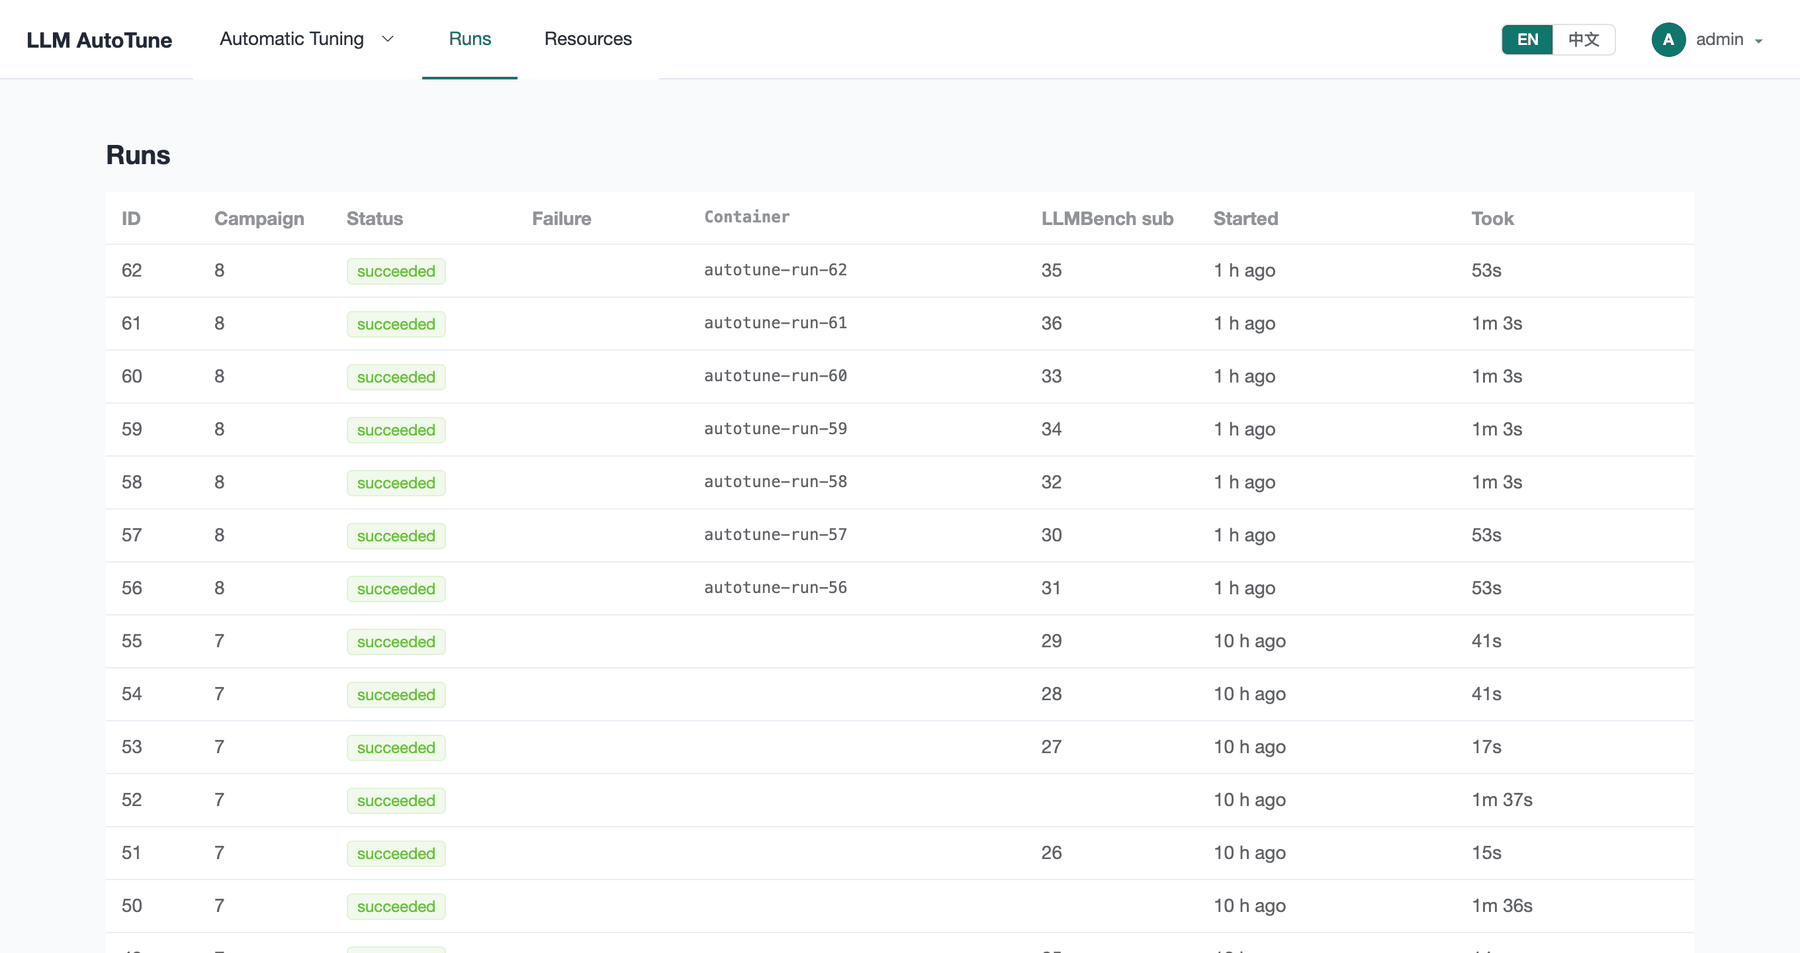
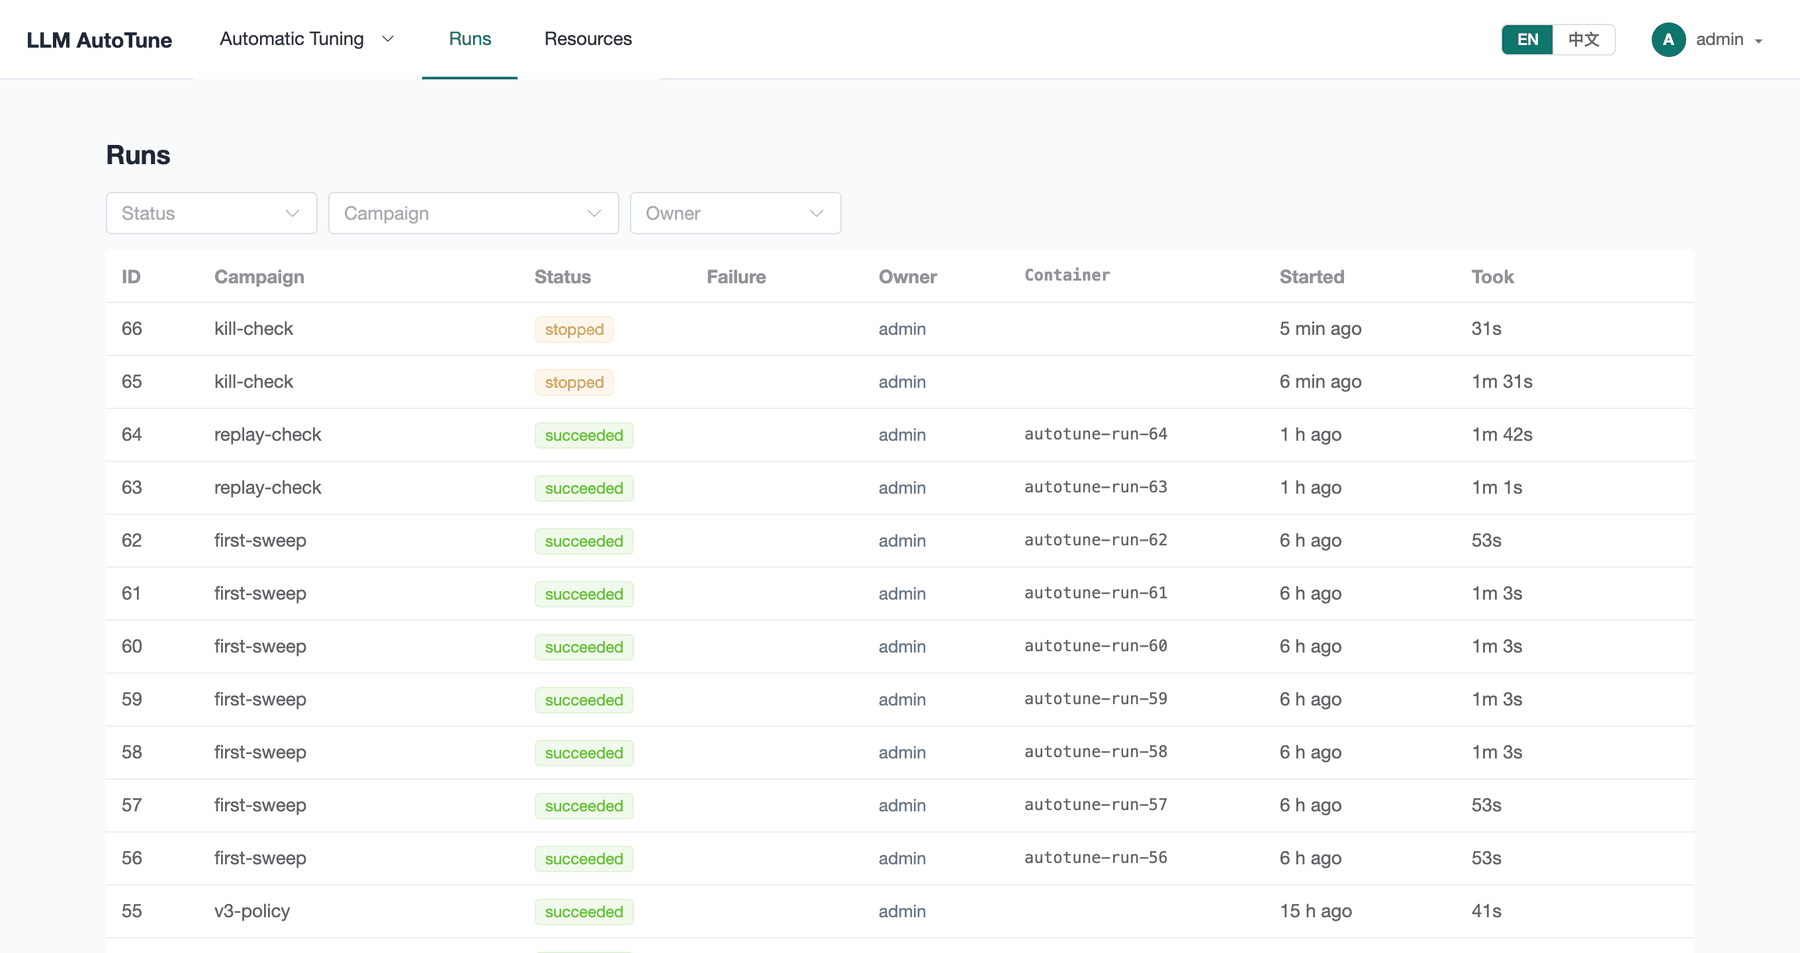
Docs: the compact campaign page, Start from, filters and the Activity log

diff --git a/docs/guide/running-campaigns.md b/docs/guide/running-campaigns.md
@@ -7,18 +7,25 @@ page covers starting, pausing and stopping a campaign, its schedule, and what
 the page shows while it runs. Results are covered in
 [Reading results](results.md).
 
+The **Campaigns** list filters by status, owner, model and engine, and
+searches names, models and images. The filters are kept in the page's
+address, so a filtered list can be shared as a link.
+
 ## The campaign page
 
 ![A policy campaign that ran to the end](images/policy-finished.png)
 
-- **Heading:** the engine, the model, the search method (*every
-  configuration, in order*, or the policy), how many candidates have been
-  measured, the search space and the objective.
-- **Status tag**, **Report**, **⋯** (Logs, Clone, Export YAML, and Mark as
-  done or Delete when available) and the run controls.
-- **Schedule line:** when the campaign runs next, or until when it runs now.
-  **Edit window** or **Set a window** changes it.
-- **The policy panel** appears for a policy campaign
+- **Heading:** the name, the status, the owner and when it was created;
+  **Logs**, **Report**, **⋯** (Copy to a new campaign, Export YAML, and Mark
+  as done or Delete when available) and the run controls.
+- **Summary:** one tile each for the **Model** (and engine), the **Search**
+  (the policy, or every config; the search space and its size), the
+  **Objective** (an arrow for higher or lower is better; the redlines), the
+  **Schedule** (the window and what happens next), the **Progress** (configs
+  measured, and how many are running or failed) and, for a replay benchmark,
+  the **Replay sample**. Hover a tile for its details. The pencil next to
+  **Schedule** edits the window.
+- **The policy strip** appears for a policy campaign
   ([below](#a-policy-campaign)).
 - **The tabs**: Leaderboard, Runs, Configuration and Candidates
   ([Reading results](results.md)).
@@ -111,19 +118,21 @@ the machine's card on **Resources**.
 
 ## A policy campaign
 
-A policy campaign shows the policy's **session** as a panel:
+A policy campaign shows the policy's **session** as one strip:
 
-![The policy panel of a session that ran to the end](images/policy-panel-done.png)
+![The policy strip of a session that ran to the end](images/policy-panel-done.png)
 
 - **Track:** *starting* (the policy pod is being scheduled), *searching*,
   *finalizing* (it names its finalists), *validating* (the platform measures
-  the finalists itself) and *done*.
-- **Status line:** trials so far, finalists, when the policy last reported,
-  and its latest message, such as "t3: benchmarking". After it finishes, why
-  the search ended, such as "the policy had nothing more to try".
-- **Waiting on:** what a stalled policy is waiting for.
-- **Logs** opens the policy container's log. **Abort** ends the session
-  immediately.
+  the finalists itself) and *done*. A tag after it marks a session that
+  failed, was aborted, or is stopping.
+- **Next to it:** trials and finalists so far, or, once it has finished, why
+  the search ended, such as *nothing more to try*.
+- **A warning line** below says what a stalled policy is waiting for, and a
+  red one shows its error.
+- **Details** opens the session's particulars: when it started, when the
+  policy last reported, its latest message and its deadline. **Logs** opens
+  the logs; **Abort** ends the session immediately.
 
 On the **Runs** tab, each **trial** is one row: the engine the platform
 launched for the policy, which holds the GPUs and stays *serving* while the
@@ -142,15 +151,24 @@ measurements at the end.
 - **Leaderboard.** Fills in as results arrive.
 - **Resources.** Each machine card links to the campaigns using it and shows
   the GPUs in use.
-- **⋯ ▸ Logs.** The engine logs of the campaign's runs: live while a run is
-  active, and the end of each log after it finishes.
+- **Logs.** Pick a log from the list:
+  - **Activity**: what the platform did for the campaign, one line per step,
+    times in UTC: runs placed and ended, stops asked for, and each request a
+    policy made. It is there even when a container printed nothing or never
+    started.
+  - **Policy container** (a policy campaign): what the policy printed.
+  - **Engine** for each run: live while the run is active, and the end of the
+    log after it finishes.
+
+![The Activity log of a campaign that was stopped](images/campaign-activity.png)
 
 ## Copying a campaign
 
-**⋯ ▸ Clone** creates a new campaign with the same definition (not the
-results) under a new name, to repeat the search later, on another machine, or
-with one change. **⋯ ▸ Export YAML** exports the same definition as a file,
-which **Import YAML** on New campaign reads.
+**⋯ ▸ Copy to a new campaign** opens New campaign with this one's definition
+filled in (not its results), named with the next version (*sweep v2*), to
+change before you create it: to repeat the search later, on another machine,
+or with one change. **⋯ ▸ Export YAML** exports the same definition as a file,
+which **Start from ▸ A YAML file** on New campaign reads.
 
 ![The ⋯ menu](images/campaign-more-menu.png)
 

diff --git a/docs/guide/campaigns.md b/docs/guide/campaigns.md
@@ -6,13 +6,18 @@ A **campaign** is one search: the model and engine image, the machines, the
 search space, the workload, the objective, and the schedule. Press **New
 campaign** on **Automatic Tuning ▸ Campaigns**.
 
-There are three ways to create one:
+Fill in the wizard step by step (below), or start from something that
+exists with **Start from**:
 
-- **Fill in the wizard** step by step (below).
-- **Start from a baseline**: the platform drafts the whole campaign from a
-  recorded production config ([below](#starting-from-a-baseline)).
-- **Import YAML**: paste a campaign exported from another one
+- **A previous campaign**: its definition fills the wizard in, under the
+  next version of its name, to change before creating
   ([below](#exporting-and-importing)).
+- **A baseline**: the platform drafts the whole campaign from a recorded
+  production config ([below](#starting-from-a-baseline)).
+- **A YAML file**: paste a campaign exported from another one
+  ([below](#exporting-and-importing)).
+
+![Start from](images/wizard-start-from.png)
 
 The **So far** panel on the right summarizes the campaign, with an estimate
 of the benchmarking hours it needs and how many windows that takes. Click a
@@ -162,7 +167,7 @@ confirmation first.
 ## Starting from a baseline
 
 If production's config is recorded on [Baselines](baselines.md), **Tune from
-this** there (or **Start from a baseline** here) drafts the whole campaign:
+this** there (or **Start from ▸ A baseline** here) drafts the whole campaign:
 
 - the image, model path and engine settings come from the baseline; its
   settings become the fixed part of the search space;
@@ -180,9 +185,14 @@ Adjust anything, then create it as usual.
 
 On a campaign's page, **⋯ ▸ Export YAML** exports everything needed to
 recreate it (model, machines, search space, workload, objective and schedule),
-without status or results. **Import YAML** on New campaign fills the wizard
-from such a file and runs the checks. **⋯ ▸ Clone** does both in one step,
-under a new name.
+without status or results. **Start from ▸ A YAML file** on New campaign
+fills the wizard from such a file and runs the checks.
+
+**Start from ▸ A previous campaign** (or **⋯ ▸ Copy to a new campaign** on its
+page) fills the wizard in from a campaign on this platform and stays on the
+first step, to change what the next search needs. The search space and
+objective are the ones that campaign ran with, even if the saved ones have
+been edited since.
 
 ---
 

diff --git a/docs/guide/runs.md b/docs/guide/runs.md
@@ -4,8 +4,9 @@
 
 A **run** is one attempt at one candidate: the engine started with that
 config, health-checked, benchmarked and stopped. **Runs** in the top menu
-lists every run of every campaign, newest first. Click a row to open the run's
-details on its campaign's page.
+lists every run of every campaign, newest first. Filter it by status
+(*running* is every live state), campaign or owner. Click a row to open the
+run's details on its campaign's page.
 
 ![The Runs page](images/runs-page.png)
 
@@ -14,8 +15,8 @@ details on its campaign's page.
 | **Campaign** | the campaign it belongs to |
 | **Status** | where it is in its life (below) |
 | **Failure** | for a failed run, what kind of failure (below) |
+| **Owner** | who owns its campaign |
 | **Container** | the name of its container or Kubernetes workload |
-| **LLMBench sub** | the id of its benchmark submission on LLMBench |
 | **Started**, **Took** | when it started, and how long it took |
 
 **Stop** on a live run ends that run: on the worker's next tick its engine is
@@ -78,10 +79,18 @@ them differently:
 
 Open the run's details:
 
-- **Error** gives the platform's explanation.
+- **The top line**: its status, the kind of failure, how long it took, its
+  GPUs, its endpoint and its LLMBench submission.
+- **The error** gives the platform's explanation.
+- **The score** it was ranked on, whether it held the redlines, and the
+  metrics the objective names. Its swept parameters are below; the full
+  config, the engine command, the launch command and every metric are folded
+  away underneath.
 - **Captured log** has the engine's output, ending where it failed (for an
   active run, the log so far). **Download** saves it. If the engine crashed
-  and restarted, the log from before the restart comes first.
+  and restarted, the log from before the restart comes first. A run with no
+  log says why, such as a run stopped before its engine was launched; the
+  campaign's **Logs ▸ Activity** shows what happened to it.
 
 ![A run's details](images/campaign-run-drawer.png)
 

diff --git a/docs/guide/troubleshooting.md b/docs/guide/troubleshooting.md
@@ -84,12 +84,17 @@ each machine. Common reasons:
 - a pinned machine was removed.
 
 **A policy campaign stays in *starting*.** The policy pod has not started on
-the GPU cluster. **Waiting on:** in the policy panel gives the reason, usually
-an image the nodes cannot pull or no node with room for it.
+the GPU cluster. The warning line under the policy strip gives the reason,
+usually an image the nodes cannot pull or no node with room for it.
 
 **A policy stays in *searching* with nothing running.** Its latest message
 says what it is waiting for, such as "no free cards yet, will retry" while a
-previous engine shuts down. **Logs** on the panel shows the policy's log.
+previous engine shuts down. **Logs** on the strip shows the policy's log.
+
+**A log is empty.** A container that printed nothing, or was stopped before it
+started, leaves no log, and the log says which. **Logs ▸ Activity** on the
+campaign shows what the platform did either way: where each run was placed,
+who stopped it, and what the policy asked for.
 
 **The leaderboard stays empty.** No run has succeeded yet. Check the **Runs**
 tab: if every run fails, the cause is shared (below).

diff --git a/docs/guide/policies.md b/docs/guide/policies.md
@@ -61,9 +61,11 @@ config the policy tried.
 The time validation needs is reserved from the search, based on how long the
 campaign's runs take.
 
-The panel's **Logs** shows the policy container's log, and **Abort** ends the
-session. **Waiting on:** shows what a stalled policy is waiting for, such as
-free GPUs.
+The strip's **Logs** shows the policy container's log, and **Abort** ends the
+session. A warning line under it shows what a stalled policy is waiting for,
+such as free GPUs. The policies built on the SDK log each step (the plan,
+every launch and its result, the platform's commands), and the campaign's
+**Activity** log has the platform's side of it.
 
 ## Registering a policy
 

diff --git a/docs/guide/baselines.md b/docs/guide/baselines.md
@@ -87,7 +87,7 @@ value:
 ![A campaign drafted from a baseline](images/draft-check.png)
 
 Review the steps (especially the benchmark and the search space), then
-**Create campaign**. **Start from a baseline** on New campaign does the same,
+**Create campaign**. **Start from ▸ A baseline** on New campaign does the same,
 and can also draft from a model name alone.
 
 After deploying a better config, **Edit** the baseline to match, so the next
